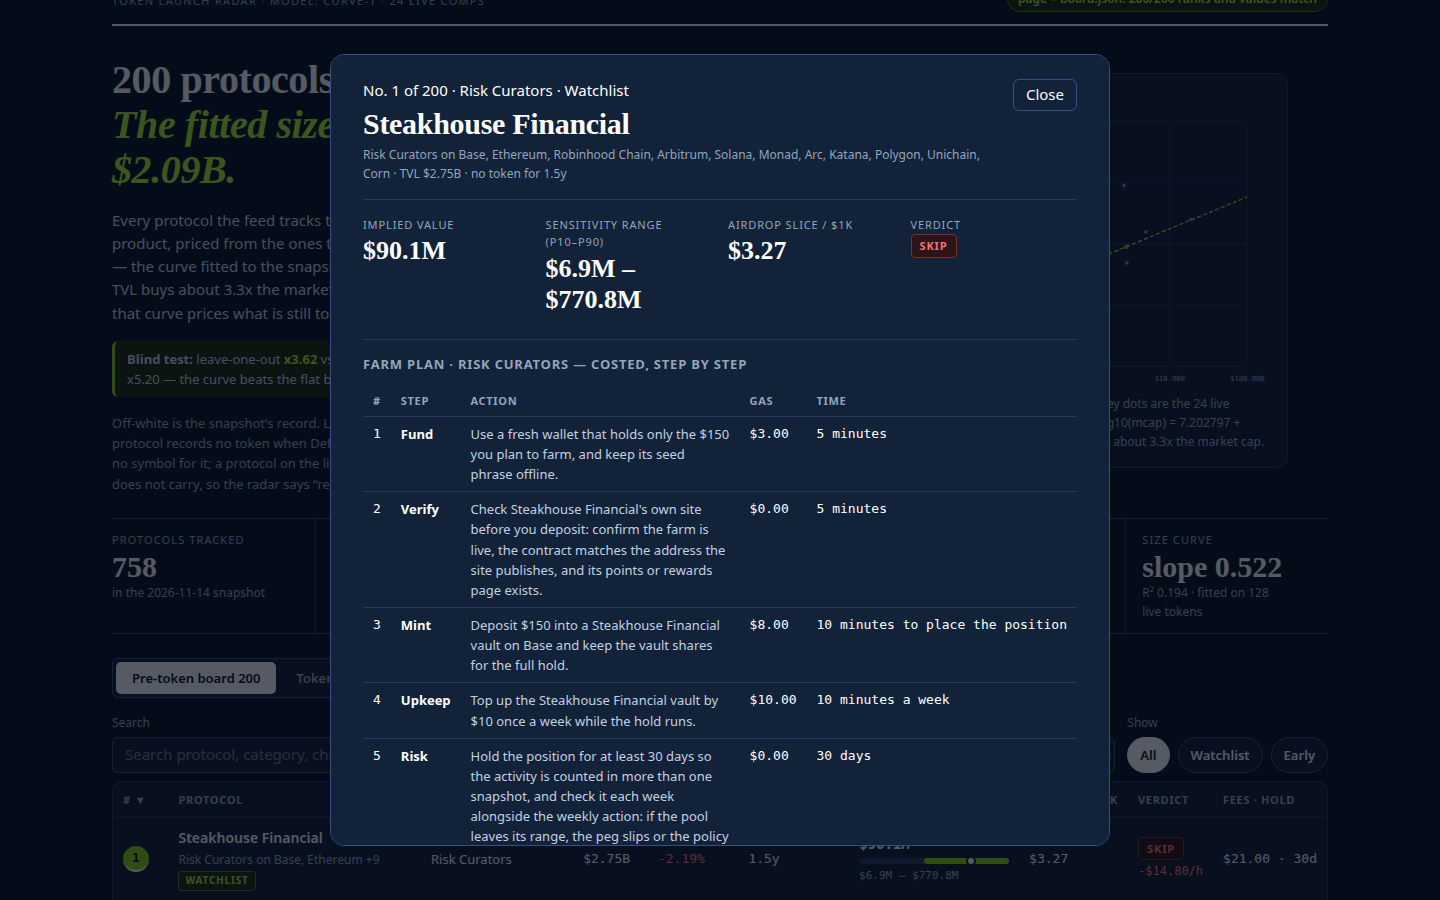
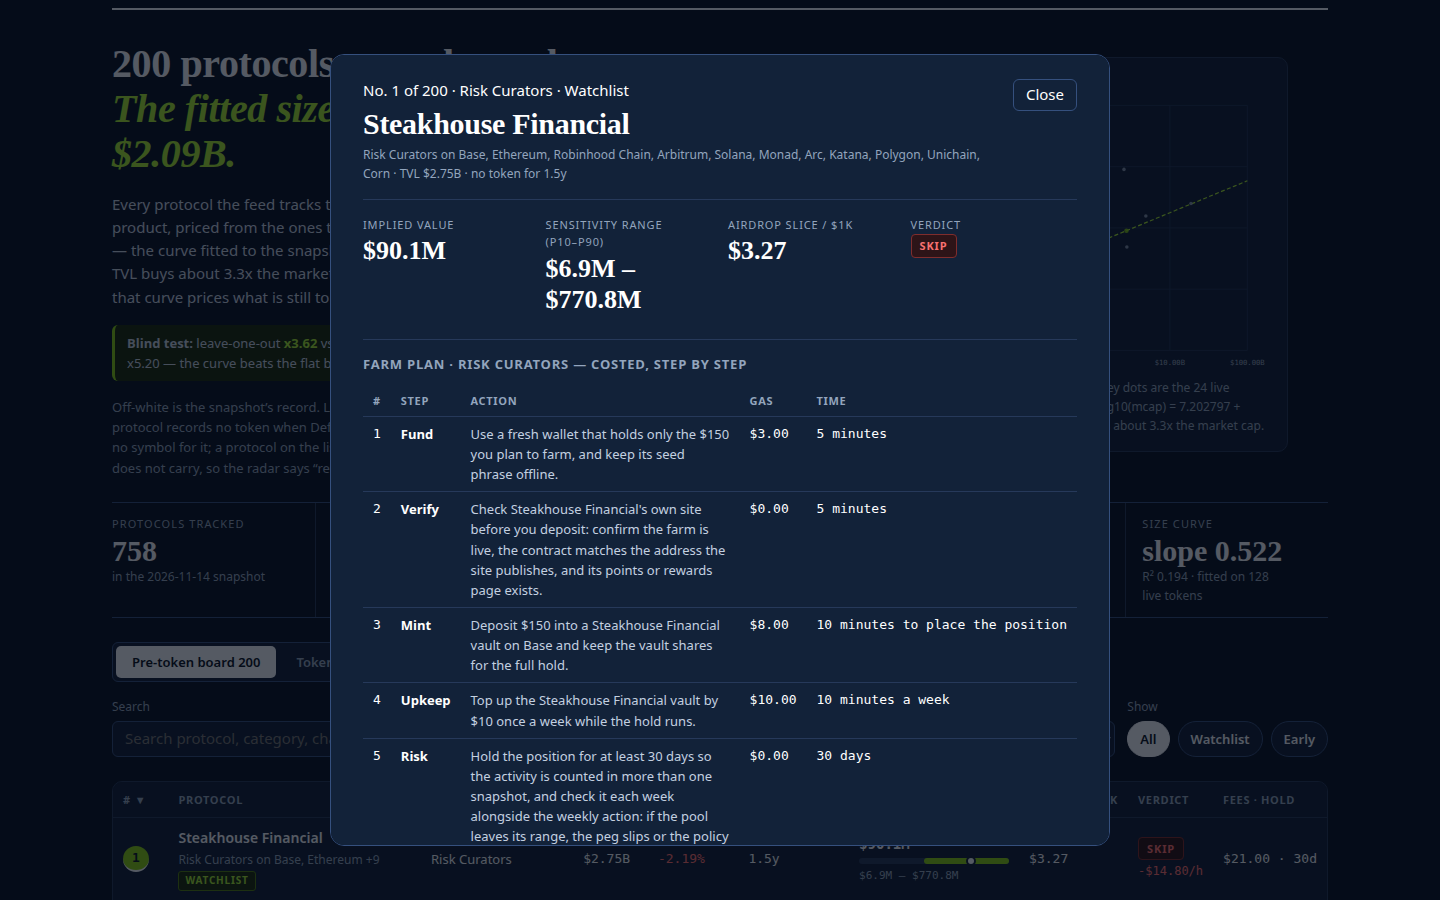
layout: widen gap between filter bar and table (24px)

diff --git a/dashboard/app.css b/dashboard/app.css
@@ -113,7 +113,7 @@ a { color: var(--accent); }
 
 /* Filter bar: search, four dropdowns and the Show pills share one line;
    their bottoms line up with the inputs. The count lives with the table. */
-.controls { display: flex; flex-wrap: nowrap; align-items: end; gap: var(--step-3); padding: var(--step-4) 0 var(--step-2); }
+.controls { display: flex; flex-wrap: nowrap; align-items: end; gap: var(--step-3); padding: var(--step-4) 0 var(--step-5); }
 .field { display: grid; gap: var(--step-1); min-width: 0; }
 .field-search { flex: 1 1 120px; }
 .field label { color: var(--muted); font-size: 12px; }
